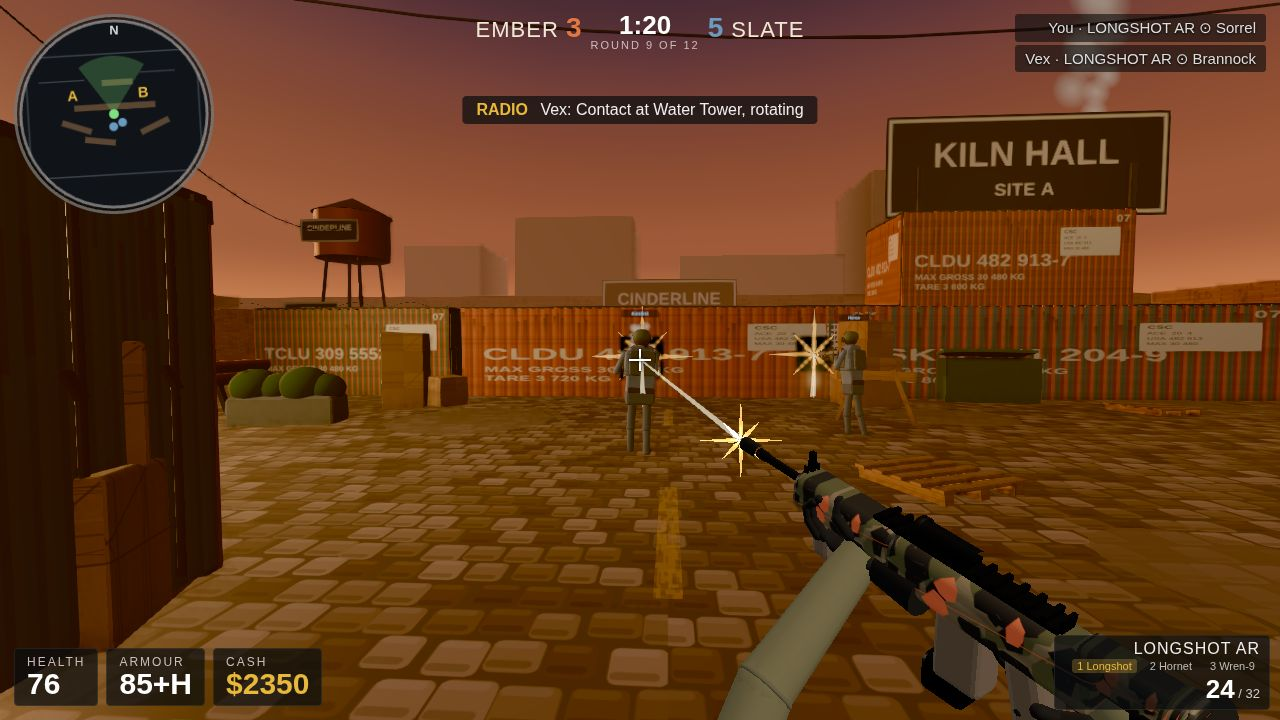
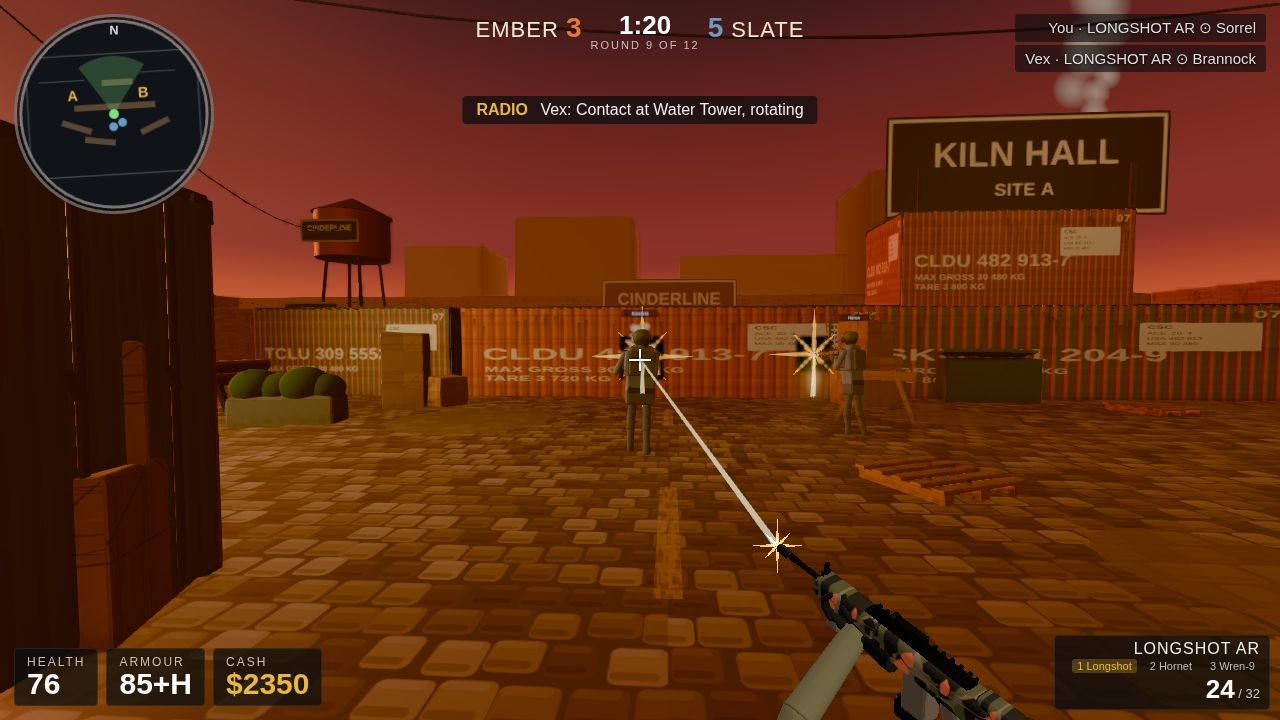
GAP A+B+C: senapan 19% frame + tracer 231 px + langit merah dalam
GAP A (senapan 34% -> 19% lebar frame, Kilnyard ~15%):
- VM dijauhkan z -0.85 -> -1.45 + ke kanan/bawah (0.60,-0.64):
  wFrac 0.34 -> 0.19, bbox 247x202 px. Popor sempat REGRESI masuk
  frame di R1 (butt 996,628) — diperbaiki R2 (butt 1024,748, keluar
  frame bawah). Moncong (777,546), dCross 231 px (Kilnyard ~230).
- Tangan tetap kebaca (sarung hitam menggenggam handguard); probe
  grip TIDAK REGRESI (handL/handR/trigger + ujung lengan sama
  seperti baseline, ERRORS 0).
GAP B (tracer pemain lebih panjang):
- Titik awal tracer dihitung ulang dari moncong baru lewat
  unproject kamera utama di 1,9 m (tracer-start.mjs — metode
  terverifikasi: nilai lama (741,440) -> (0.278,1.240,10.159)
  persis): (0.389,0.886,10.291). Tracer kini ~231 px, diagonal
  dari moncong LEWAT crosshair ke dada e1 — koneksi aim-tembak
  eksplisit (verifikasi 1-combat-vmr3).
GAP C (langit dusk lebih dalam, merah):
- Gradien langit: top 0x2a1e3a->0x1c0f2a, mid 0x8a4a3a->0x6e2430,
  horizon 0xe07848->0xd8482a; matahari + haze lebih merah;
  fog 0xb0705a->0x9a4a38; sun 0xffb070->0xff7040; hemisphere
  0x8a6a9a->0x8a3a4a. Langit kini merah dalam + pita horizon
  menyala (Kilnyard) — verifikasi combat R1/R2 + duel R3.
- Determinisme out/ 2x IDENTIK.

diff --git a/game/src/main.js b/game/src/main.js
@@ -35,9 +35,14 @@ function makeSky() {
     side: THREE.BackSide,
     depthWrite: false,
     uniforms: {
-      top: { value: new THREE.Color(0x2a1e3a) },
-      mid: { value: new THREE.Color(0x8a4a3a) },
-      horizon: { value: new THREE.Color(0xe07848) },
+      // GAP C R1 (16 Nov): langit dusk LEBIH DALAM (merah) — Kilnyard
+      // punya langit merah dalam, ours oranye datar. top lebih gelap,
+      // mid merah dalam (bukan coklat), horizon merah-oranye dalam
+      // (bukan peach). Fog + lampu ikut dimerahkan supaya suasana
+      // konsisten (fog = warna horizon).
+      top: { value: new THREE.Color(0x1c0f2a) },
+      mid: { value: new THREE.Color(0x6e2430) },
+      horizon: { value: new THREE.Color(0xd8482a) }, // GAP C R2: horizon sedikit lebih terang/oranye (Kilnyard punya pita horizon merah-oranye yang menyala, ours R1 terlalu gelap merata)
       sunDir: { value: new THREE.Vector3(-0.9, 0.14, -0.35).normalize() },
     },
     vertexShader: `varying vec3 vDir; void main() { vDir = normalize(position); gl_Position = projectionMatrix * modelViewMatrix * vec4(position, 1.0); }`,
@@ -54,8 +59,8 @@ function makeSky() {
         float band2 = smoothstep(0.52, 0.58, h) * (1.0 - smoothstep(0.66, 0.74, h));
         col *= 1.0 - 0.10 * band1 - 0.08 * band2;
         float s = max(dot(normalize(vDir), sunDir), 0.0);
-        col += vec3(1.0, 0.55, 0.25) * pow(s, 90.0) * 0.4;   // sun disc
-        col += vec3(1.0, 0.45, 0.18) * pow(s, 6.0) * 0.03;   // haze around the sun
+        col += vec3(1.0, 0.35, 0.15) * pow(s, 90.0) * 0.4;   // sun disc (GAP C R1: lebih merah)
+        col += vec3(1.0, 0.30, 0.12) * pow(s, 6.0) * 0.05;   // haze around the sun (GAP C R2: 0.03 -> 0.05, glow matahari lebih kebaca di kiri langit)
         gl_FragColor = vec4(col, 1.0);
       }`,
   });
@@ -73,7 +78,7 @@ renderer.toneMappingExposure = 1.05;
 document.getElementById('app').appendChild(renderer.domElement);
 
 const scene = new THREE.Scene();
-scene.fog = new THREE.Fog(0xb0705a, 26, 65); // fog colour = horizon colour
+scene.fog = new THREE.Fog(0x9a4a38, 26, 65); // fog colour = horizon colour (GAP C R1: merah dalam)
 const sky = makeSky();
 scene.add(sky);
 
@@ -87,13 +92,13 @@ scene.add(sky);
 }
 
 // ---- lights: low warm sun + hemisphere fill + cool rim (proven position) ----
-const sun = new THREE.DirectionalLight(0xffb070, 3.0);
+const sun = new THREE.DirectionalLight(0xff7040, 3.0); // GAP C R1: matahari lebih merah
 sun.position.set(-36, 5.6, -14);
 scene.add(sun);
-scene.add(new THREE.HemisphereLight(0x8a6a9a, 0x4a3628, 0.7));
+scene.add(new THREE.HemisphereLight(0x8a3a4a, 0x4a3628, 0.7)); // GAP C R1: langit hemisphere lebih merah
 // camera fill: warm light from behind the player so faces/fronts that turn
 // away from the low sun stay readable instead of going black
-const fill = new THREE.DirectionalLight(0xffd0a0, 0.45);
+const fill = new THREE.DirectionalLight(0xffb080, 0.45); // GAP C R1: fill sedikit lebih merah
 fill.position.set(0, 5, 25);
 scene.add(fill);
 const rim = new THREE.DirectionalLight(0x8a9ac0, 0.4);
@@ -157,7 +162,7 @@ const vmRifle = buildRifle({ skin: true }); // CELAH 1 + SKIN: skin hanya di vie
 // Butt (1083,665) kini masuk frame (baseline 1275,736 terpotong tepi) —
 // dicek di combat shot R1: kalau massa stock masih terlalu gede, dorong
 // y lebih negatif di R2.
-vmRifle.group.position.set(0.42, -0.30, -0.85); // POPOR R1: kanan +0.06, bawah -0.04, maju +0.05 — popor keluar frame bawah/kanan (Kilnyard: senapan ke-crop di pojok, cuma laras + tangan yang kelihatan)
+vmRifle.group.position.set(0.60, -0.64, -1.45); // GAP A+B R2 (16 Nov): R1 mencapai wFrac 0.19 TAPI popor REGRESI — popor kembali masuk frame (996,628) karena senapan mengecil. Dorong ke bawah (y -0.42 -> -0.64, ~107 px) + kanan (x 0.55 -> 0.60) supaya popor keluar frame bawah lagi; moncong ikut ke pojok (dCross ~250 px, dekat Kilnyard ~230) = tracer makin panjang. Skala + rotasi tetap.
 vmRifle.group.rotation.set(0.38, -2.60, 0); // POPOR R1: pitch 0.30->0.38 — moncong naik ke arah crosshair, popor turun makin keluar
 vmRifle.group.scale.setScalar(0.85);
 vmScene.add(vmRifle.group);

diff --git a/game/src/game.js b/game/src/game.js
@@ -436,7 +436,12 @@ export class Game {
       // yang baru (-0.42,1.35,5); titik awal dihitung ulang untuk pitch
       // -0.04: (0.278,1.240,10.159) unproject ke moncong (741,440) di
       // 1,9 m (metode sama, validasi nilai lama persis).
-      this.spawnTracer(new THREE.Vector3(0.278, 1.240, 10.159), new THREE.Vector3(-0.42, 1.35, 5));
+      // GAP A+B R2 (16 Nov): VM pindah (moncong kini (777,546), dCross
+      // 231 px — dekat Kilnyard ~230) — titik awal dihitung ulang:
+      // (0.389,0.886,10.291) unproject ke moncong (777,546) di 1,9 m
+      // (tracer-start.mjs, metode sama, validasi nilai lama persis).
+      // Tracer kini ~231 px dari moncong ke crosshair/dada e1.
+      this.spawnTracer(new THREE.Vector3(0.389, 0.886, 10.291), new THREE.Vector3(-0.42, 1.35, 5));
       this.hud.setScore(3, 5, '1:20', 9);
     } else if (name === 'buy') {
       this.state = 'buy';
